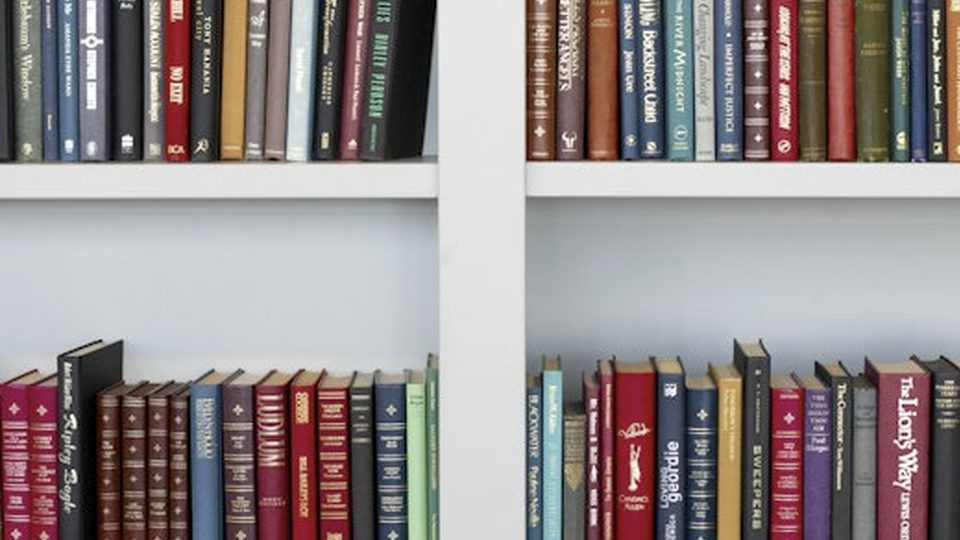
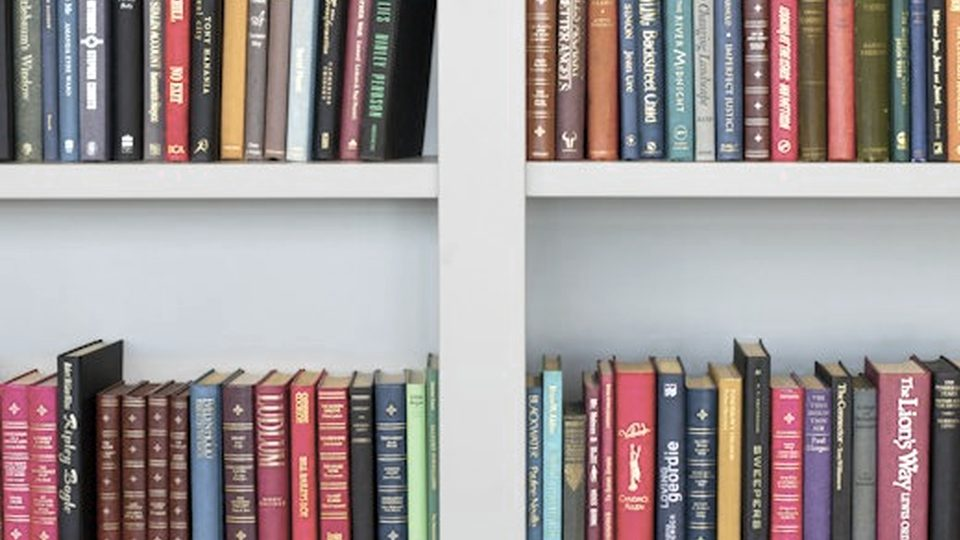
实拍图改为精确 45% 降饱和（HSV S×0.55）+ 对比 +5%；二维码指向部署地址

diff --git a/styles.css b/styles.css
@@ -85,9 +85,13 @@ code{ font-family:ui-monospace,SFMono-Regular,Menlo,Consolas,monospace; font-siz
 .qr img{ width:130px; height:130px; }
 .qr__label{ font-size:10.5px; letter-spacing:.12em; color:var(--gray); margin:0 0 6px; }
 .qr__url{
+  display:inline-block;
   font-size:12px; line-height:1.5; word-break:break-all; margin:0 0 8px;
+  color:var(--ink); text-decoration:none;
+  border-bottom:1px solid var(--line);
   font-family:ui-monospace,SFMono-Regular,Menlo,Consolas,monospace;
 }
+.qr__url:hover{ border-bottom-color:var(--ink); }
 .qr__hint{ font-size:11px; color:var(--gray); margin:0; }
 
 .brief__notes{ list-style:none; margin:0 0 22px; padding:0; }

diff --git a/index.html b/index.html
@@ -35,7 +35,7 @@
       </div>
       <div class="qr__meta">
         <p class="qr__label">课堂上扫码打开</p>
-        <p class="qr__url" id="qrUrl">正在部署…</p>
+        <a class="qr__url" id="qrUrl" href="https://8-321.github.io/campus-loot/" target="_blank" rel="noopener">https://8-321.github.io/campus-loot/</a>
         <p class="qr__hint">手机浏览器直接打开，无需安装。</p>
       </div>
     </div>

diff --git a/data.js b/data.js
@@ -2,6 +2,9 @@
    隐私：不含真实姓名 / 学号 / 手机号 / 宿舍号 / 微信 / 邮箱 / 学校全称。
    换真实校园时，只改 CAMPUSES 里的 spots 与 SEED 即可。 */
 
+/* 部署地址：二维码 assets/qr.png 与左栏链接都指向这里 */
+const DEPLOY_URL = 'https://8-321.github.io/campus-loot/';
+
 const CAMPUSES = [
   {
     id: 'north',

diff --git a/app.js b/app.js
@@ -542,6 +542,8 @@
 
   /* ---------------- 启动 ---------------- */
   function init() {
+    var qrLink = document.getElementById('qrUrl');
+    if (qrLink && typeof DEPLOY_URL === 'string') { qrLink.textContent = DEPLOY_URL; qrLink.href = DEPLOY_URL; }
     bind();
     initPublish();
     renderHome();
